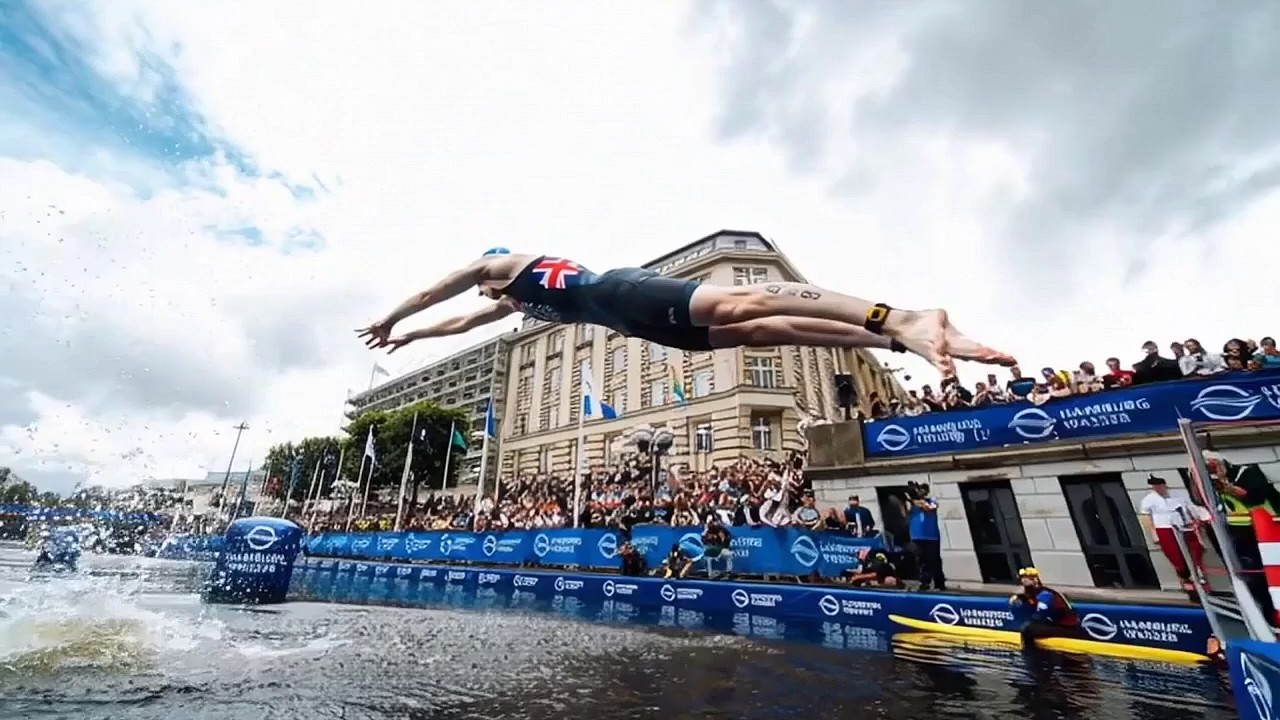
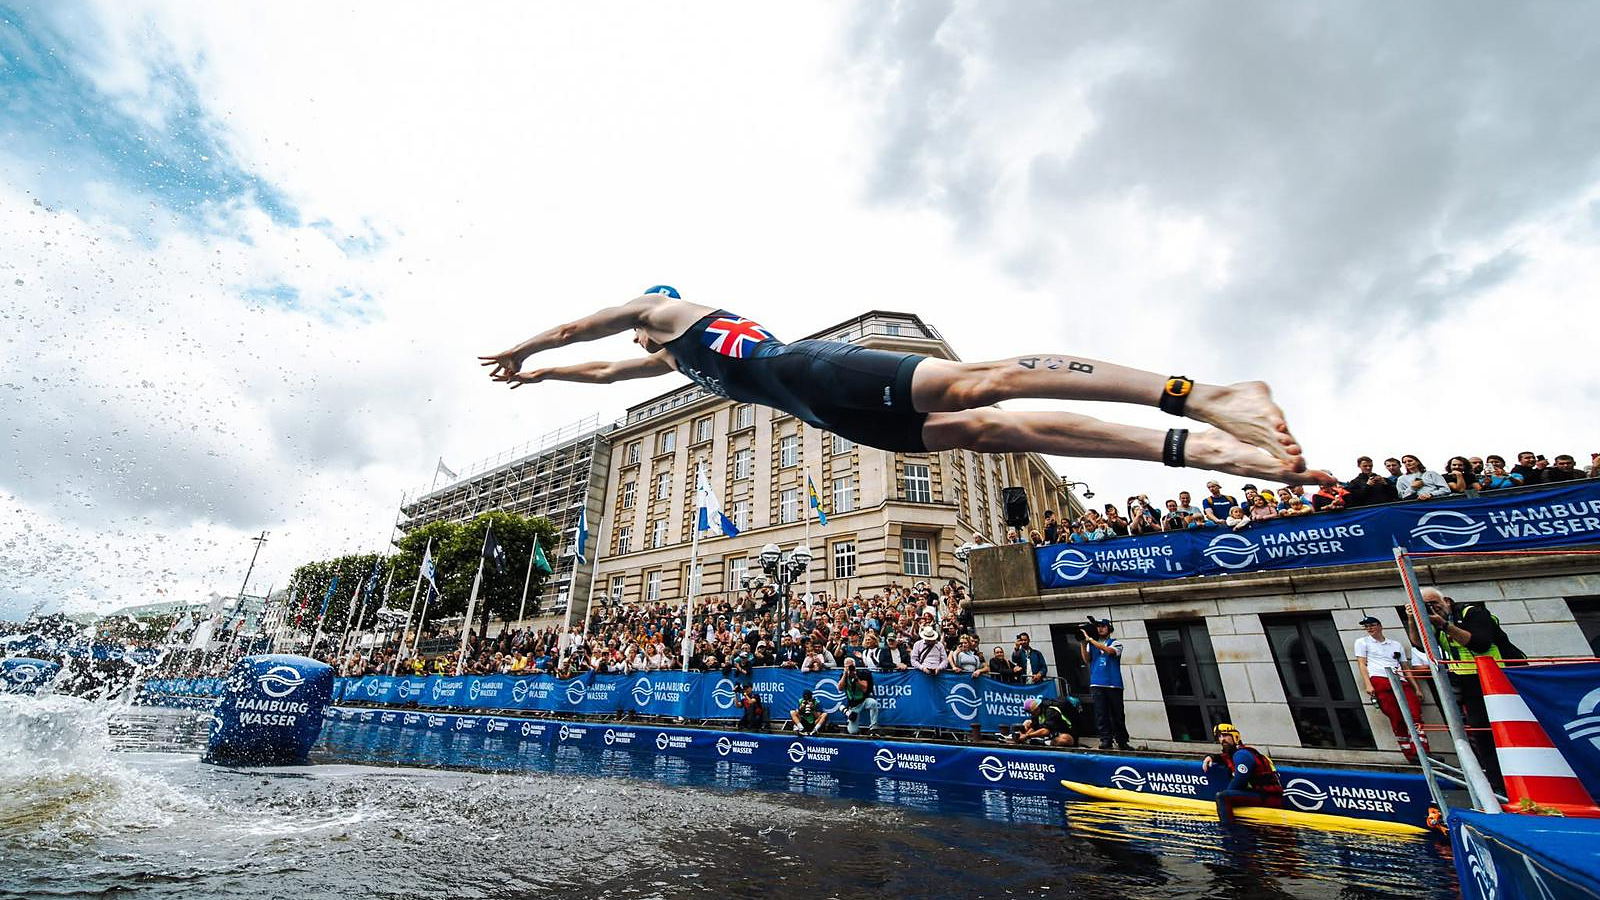
Hero at rest now shows the original photograph, not a rendered frame
The poster was frame 1 of the generated clip, so the page at rest displayed a
sora-2 re-render of the photo rather than the photo. The original resolves crowd
faces, banner text and arm numbers that the render loses entirely.

The poster is now the original hamburg-dive.jpeg, cropped to the same window the
video was seeded from so the handover is seamless, with a light unsharp pass at
quality 93. The canvas only fades in once scroll passes 0.012, so anyone who
does not scroll sees the photograph.

The moving frames are still bounded by sora-2's 720p output.

diff --git a/index.html b/index.html
@@ -514,7 +514,7 @@
     var im = new Image();
     im.onload = function () {
       ok[i] = true; loaded++;
-      if (loaded === 1) { canvas.classList.add('ready'); size(); }
+      if (loaded === 1) { size(); }
       if (load) load.textContent = loaded < COUNT ? 'Loading ' + Math.round(loaded / COUNT * 100) + '%' : '';
       if (loaded === COUNT && load) load.style.opacity = 0;
       draw(true);
@@ -553,6 +553,8 @@
   function draw(force) {
     var p = progress(), want = Math.min(COUNT - 1, Math.round(p * (COUNT - 1))), idx = nearest(want);
     if (idx >= 0 && (force || idx !== cur)) { cur = idx; paint(imgs[idx]); }
+    // at rest the poster is the original photograph, which is sharper than any rendered frame
+    canvas.classList.toggle('ready', p > 0.012 && idx >= 0);
     var reveal = Math.max(0, Math.min(1, (p - 0.72) / 0.28));
     title.style.opacity = reveal;
     title.style.transform = 'translateY(' + (26 * (1 - reveal)) + 'px)';

diff --git a/redesign/index.html b/redesign/index.html
@@ -512,7 +512,7 @@
     var im = new Image();
     im.onload = function () {
       ok[i] = true; loaded++;
-      if (loaded === 1) { canvas.classList.add('ready'); size(); }
+      if (loaded === 1) { size(); }
       if (load) load.textContent = loaded < COUNT ? 'Loading ' + Math.round(loaded / COUNT * 100) + '%' : '';
       if (loaded === COUNT && load) load.style.opacity = 0;
       draw(true);
@@ -551,6 +551,8 @@
   function draw(force) {
     var p = progress(), want = Math.min(COUNT - 1, Math.round(p * (COUNT - 1))), idx = nearest(want);
     if (idx >= 0 && (force || idx !== cur)) { cur = idx; paint(imgs[idx]); }
+    // at rest the poster is the original photograph, which is sharper than any rendered frame
+    canvas.classList.toggle('ready', p > 0.012 && idx >= 0);
     var reveal = Math.max(0, Math.min(1, (p - 0.72) / 0.28));
     title.style.opacity = reveal;
     title.style.transform = 'translateY(' + (26 * (1 - reveal)) + 'px)';

diff --git a/redesign/template.html b/redesign/template.html
@@ -506,7 +506,7 @@
     var im = new Image();
     im.onload = function () {
       ok[i] = true; loaded++;
-      if (loaded === 1) { canvas.classList.add('ready'); size(); }
+      if (loaded === 1) { size(); }
       if (load) load.textContent = loaded < COUNT ? 'Loading ' + Math.round(loaded / COUNT * 100) + '%' : '';
       if (loaded === COUNT && load) load.style.opacity = 0;
       draw(true);
@@ -545,6 +545,8 @@
   function draw(force) {
     var p = progress(), want = Math.min(COUNT - 1, Math.round(p * (COUNT - 1))), idx = nearest(want);
     if (idx >= 0 && (force || idx !== cur)) { cur = idx; paint(imgs[idx]); }
+    // at rest the poster is the original photograph, which is sharper than any rendered frame
+    canvas.classList.toggle('ready', p > 0.012 && idx >= 0);
     var reveal = Math.max(0, Math.min(1, (p - 0.72) / 0.28));
     title.style.opacity = reveal;
     title.style.transform = 'translateY(' + (26 * (1 - reveal)) + 'px)';

diff --git a/CLAUDE.md b/CLAUDE.md
@@ -56,7 +56,8 @@ The classic page keeps its own system in `styles.css` (Montserrat/Open Sans, blu
 
 ## Key Sections (live page, in order)
 1. **Dive hero** - Pinned, scroll-scrubbed frame sequence. The camera opens at the photographer's position beside the canal, swings behind Michael as he holds a flat streamlined dive travelling forward, and ends as he enters the water. The name and CTAs surface over the spray. Scroll position picks the frame; nothing autoplays.
-   - Frames: `images/hero-frames/f001..f030.webp` (30 frames, 1280px native, WebP q86, ~3.4 MB total). `images/hero-poster.jpg` is frame 1 and is the LCP element plus the Open Graph image. `COUNT`/`EXT` in the inline script must match what is in the folder.
+   - Frames: `images/hero-frames/f001..f030.webp` (30 frames, 1280px native, WebP q86, ~3.4 MB total). `images/hero-poster.jpg` is **not** a generated frame - it is the original photograph (`hamburg-dive.jpeg`) cropped to the same 1600x900 window the video was seeded from, which is visibly sharper than anything sora-2 rendered from it. It is the LCP element, the Open Graph image, and what is on screen at rest.
+   - The canvas only fades in once scroll progress passes 0.012, so a visitor who never scrolls sees the real photograph rather than a soft rendered frame. Do not revert this: the at-rest view is the most-seen state and the generated frames lose the crowd faces and banner text. `COUNT`/`EXT` in the inline script must match what is in the folder.
    - Source: generated with OpenAI **sora-2** image-to-video, seeded with a 1280x720 crop of `images/gallery/hamburg-dive.jpg`. The underwater portion is generated, not real race footage - keep that in mind before describing it as footage anywhere. Regenerate with `redesign/generate-hero.py` (currently written for fal.ai; the working Sora call is documented below).
    - Sora notes: `POST /v1/videos` multipart with `model`, `prompt`, `seconds`, `size`, `input_reference` (image must match `size` exactly). Poll `GET /v1/videos/{id}`, download `GET /v1/videos/{id}/content`. **Prompt wording matters** - naming the athlete's nationality/kit and "body-mounted" phrasing tripped `moderation_blocked`; neutral camera-motion language passed.
    - Debug: append `?dive=0.5` (0..1) to freeze the camera at any point for screenshots.
